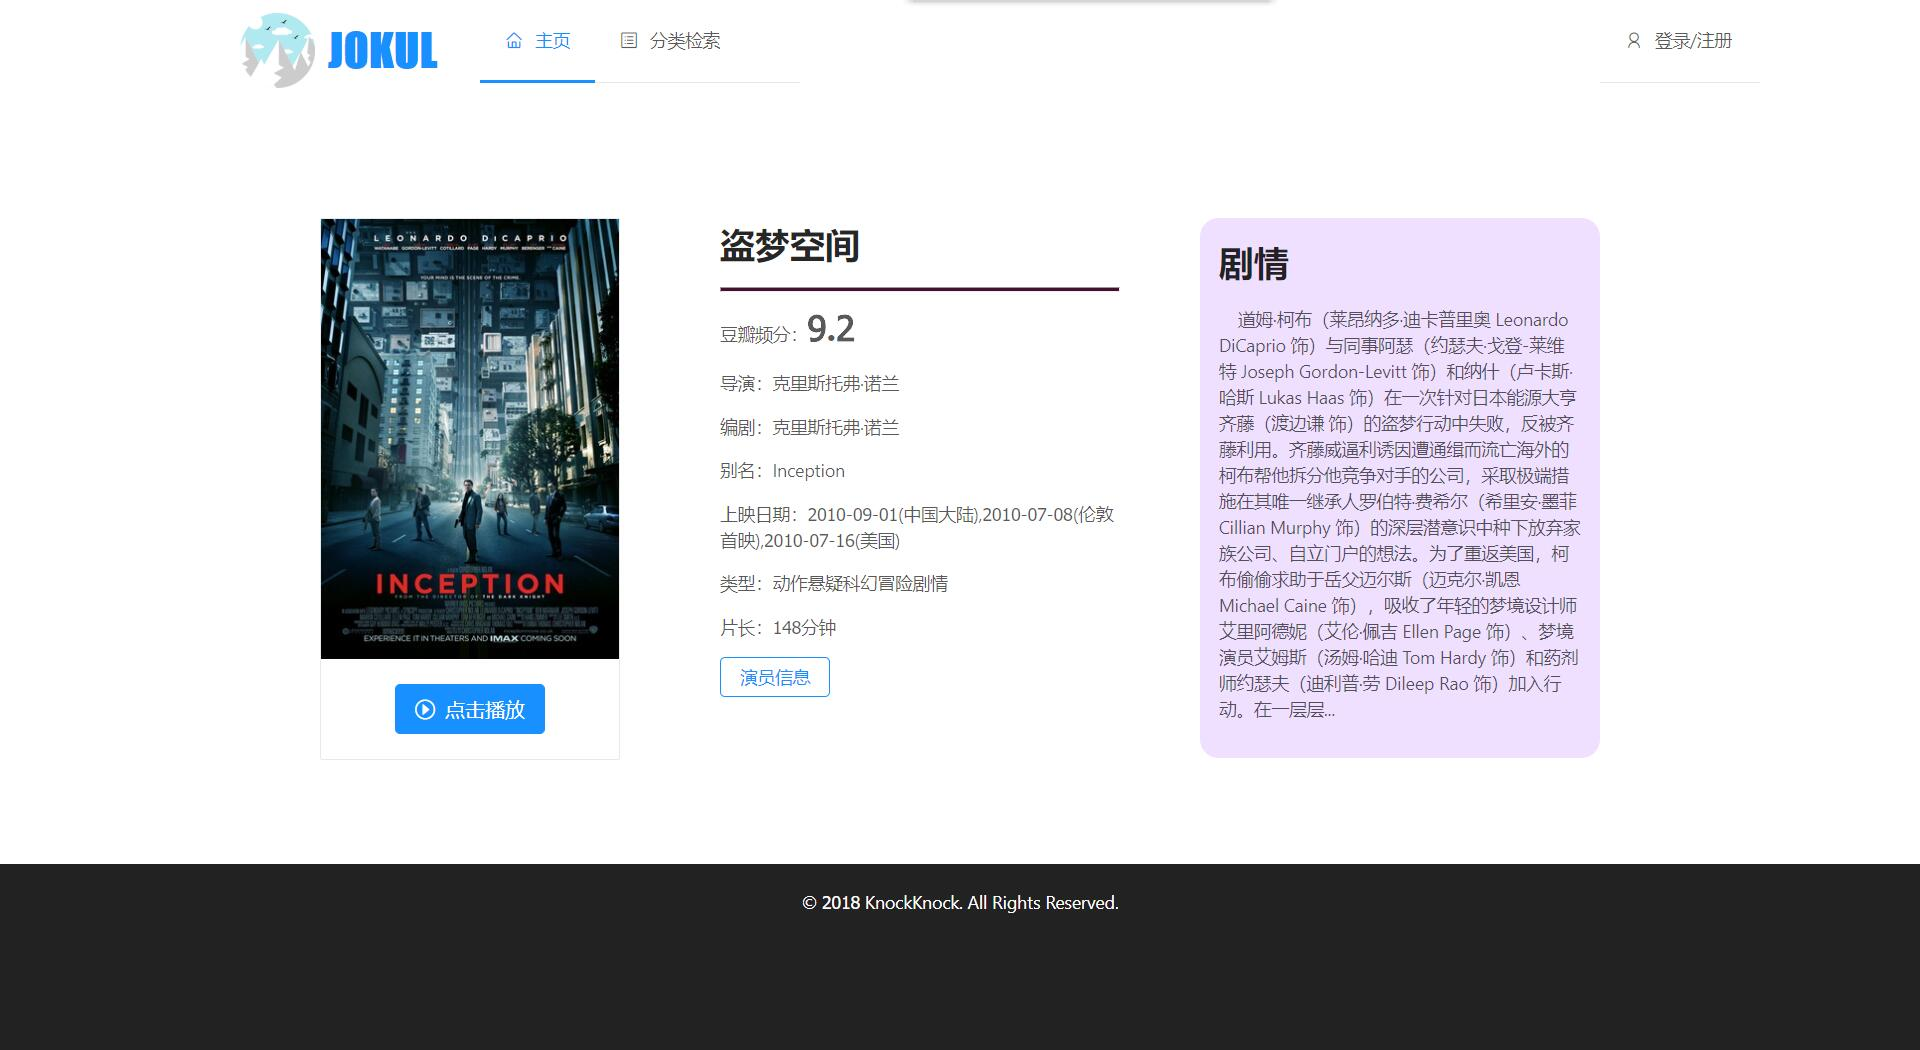
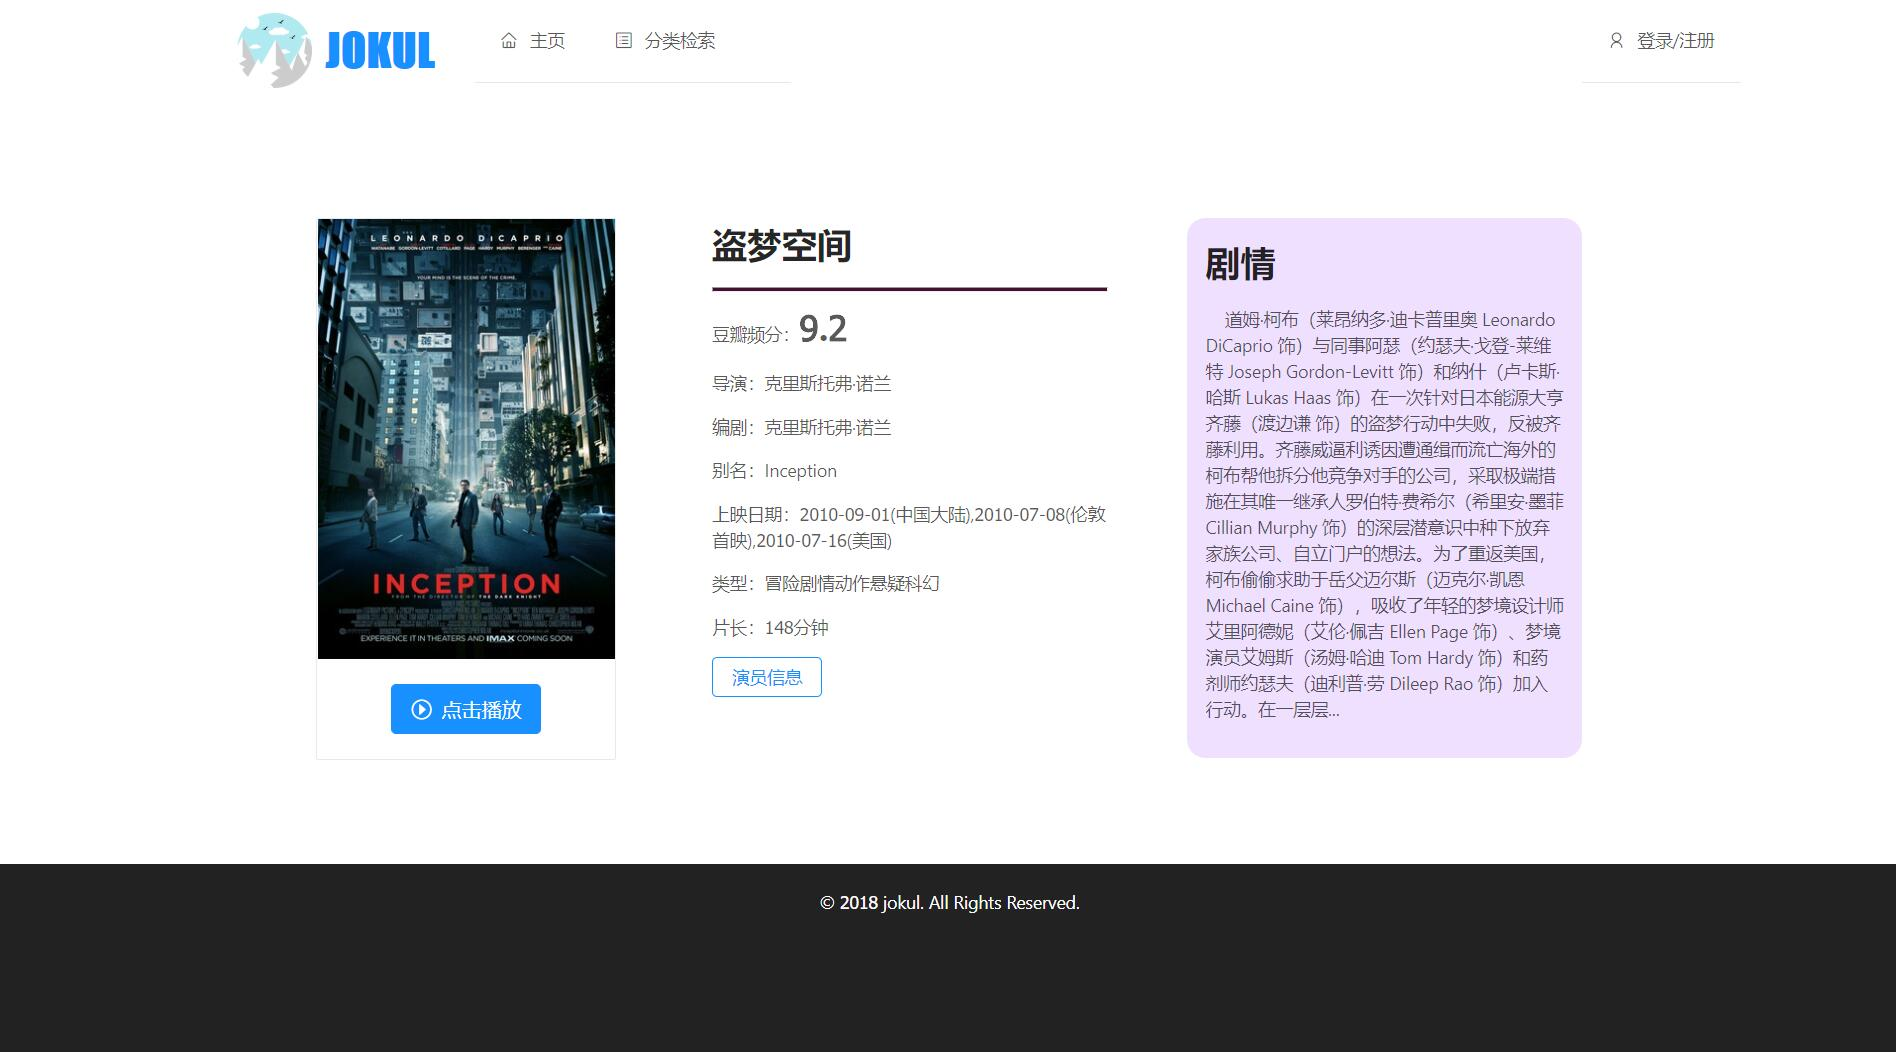
:art: modify screenshot

diff --git a/client/src/footer/footer.js b/client/src/footer/footer.js
@@ -16,7 +16,7 @@ class Footer extends React.Component {
                 <Row >
                     <Col span={4}/>
                     <Col span={16} id="copy">
-                        &copy;&nbsp;2018 KnockKnock. All Rights Reserved.
+                        &copy;&nbsp;2018 jokul. All Rights Reserved.
                     </Col>
                     <Col span={4}/>
                 </Row>

diff --git a/client/src/footer/footer.css b/client/src/footer/footer.css
@@ -2,7 +2,7 @@
 
 #footer {
     background-color: #222;
-    height: 150px;
+    height: 200px;
     padding: 20px;
     color: white;
 }
